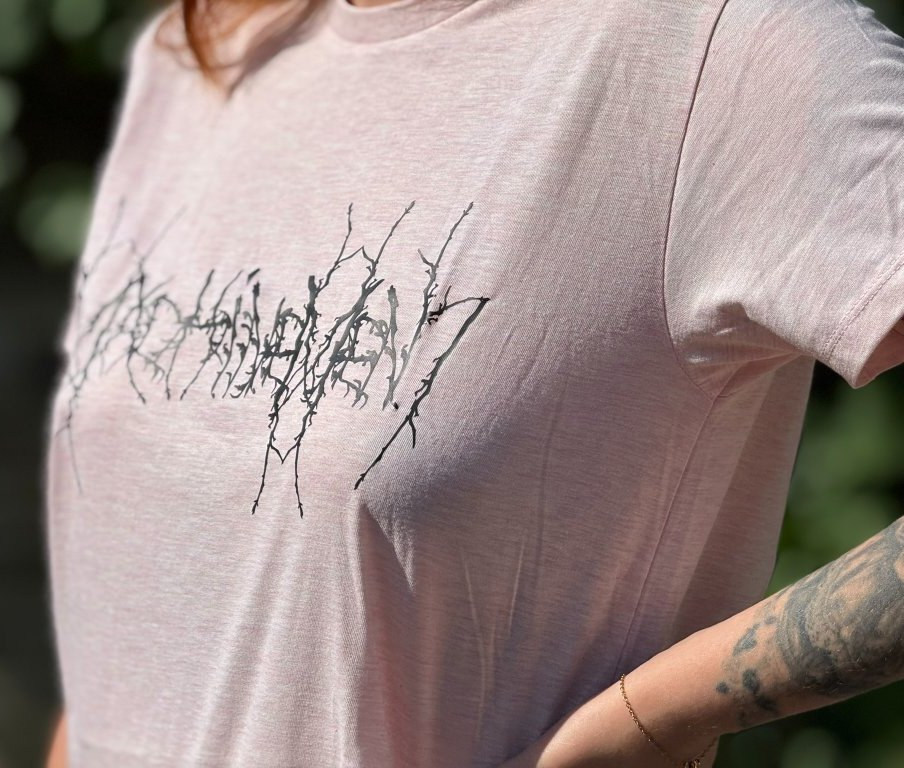
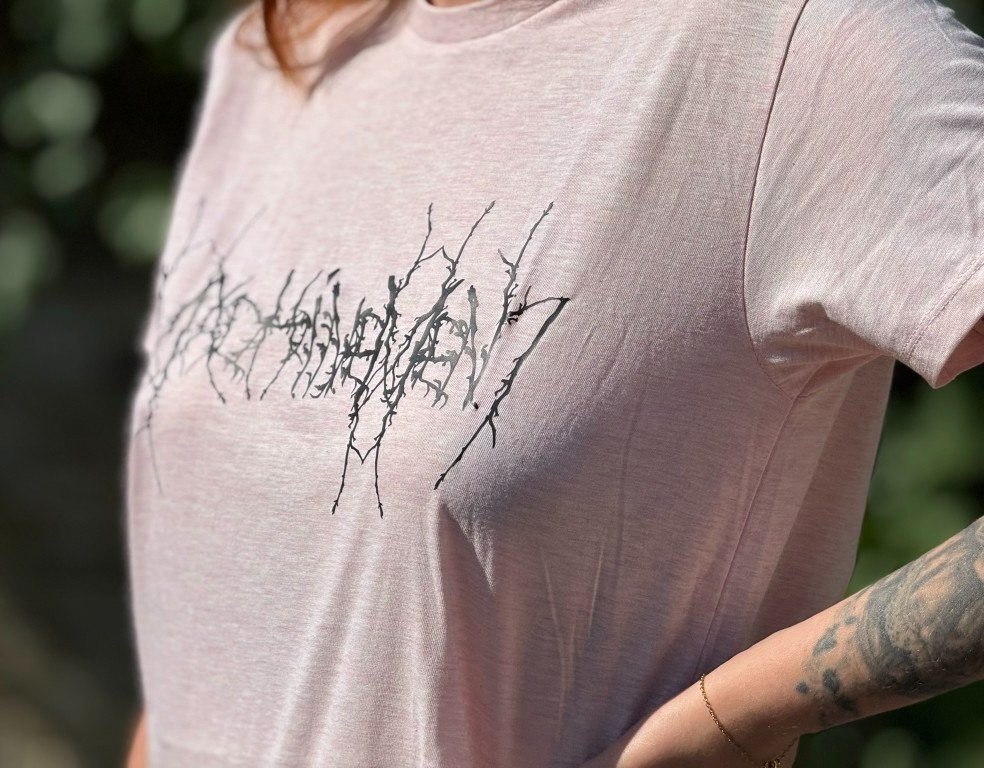
fix(shop): loosen pink t-shirt crop and use aspect-matched columns
Re-crop tshirt-pink.jpg and tshirt-pink-detail.jpg with a wider margin so
the models' arms are never cut off - only trim a bit of background.

Also switch each carousel slide from a forced grid-cols-2 + aspect-[3/4]
(which was silently re-cropping photos again via object-cover to force
them into an equal 3:4 box) to an asymmetric grid whose column widths and
row aspect ratio are computed from each photo's own pixel dimensions, so
object-cover no longer crops beyond the intentional edit.

diff --git a/layouts/index.html b/layouts/index.html
@@ -17,9 +17,13 @@
            prev/next buttons + arrow keys). -->
       <div class="relative rounded-2xl overflow-hidden mb-4 border-2 border-gold">
         <div class="grid grid-flow-col auto-cols-[100%] overflow-x-auto snap-x snap-mandatory no-scrollbar" id="shop-carousel-track" tabindex="0">
-          <div class="snap-start [scroll-snap-stop:always] min-w-0 grid grid-cols-2 gap-0.5">
-            <a href="https://machinemens.bandcamp.com/" target="_blank" rel="noopener noreferrer" class="relative block">
-              <div class="relative aspect-[3/4] w-full">
+          <!-- Column widths use grid-cols-[<w1>fr_<w2>fr] matching each cropped photo's
+               real pixel aspect ratio (not a strict 50/50 split), and the slide's own
+               aspect-[totalW/768] keeps the row height in exact proportion — so
+               object-cover never re-crops the photos beyond the intentional edit. -->
+          <div class="snap-start [scroll-snap-stop:always] min-w-0 grid grid-cols-[560fr_930fr] gap-0.5 aspect-[1490/768]">
+            <a href="https://machinemens.bandcamp.com/" target="_blank" rel="noopener noreferrer" class="relative block h-full">
+              <div class="relative w-full h-full">
                 <img src="/images/shop/tshirt-black.jpg" alt="Machinemens T-Shirt, black" class="absolute inset-0 w-full h-full object-cover" loading="eager" width="560" height="768" />
                 <div class="absolute inset-0 bg-gradient-to-t from-black/85 via-black/20 to-transparent"></div>
                 <div class="absolute inset-x-0 bottom-0 px-3 pb-3">
@@ -28,9 +32,9 @@
                 </div>
               </div>
             </a>
-            <a href="https://machinemens.bandcamp.com/" target="_blank" rel="noopener noreferrer" class="relative block">
-              <div class="relative aspect-[3/4] w-full">
-                <img src="/images/shop/tshirt-pink.jpg" alt="Machinemens T-Shirt, pink" class="absolute inset-0 w-full h-full object-cover" loading="eager" width="700" height="768" />
+            <a href="https://machinemens.bandcamp.com/" target="_blank" rel="noopener noreferrer" class="relative block h-full">
+              <div class="relative w-full h-full">
+                <img src="/images/shop/tshirt-pink.jpg" alt="Machinemens T-Shirt, pink" class="absolute inset-0 w-full h-full object-cover" loading="eager" width="930" height="768" />
                 <div class="absolute inset-0 bg-gradient-to-t from-black/85 via-black/20 to-transparent"></div>
                 <div class="absolute inset-x-0 bottom-0 px-3 pb-3">
                   <p class="text-cream font-semibold text-sm">{{ i18n "shop_product_tshirt_pink" }}</p>
@@ -39,9 +43,9 @@
               </div>
             </a>
           </div>
-          <div class="snap-start [scroll-snap-stop:always] min-w-0 grid grid-cols-2 gap-0.5">
-            <a href="https://machinemens.bandcamp.com/" target="_blank" rel="noopener noreferrer" class="relative block">
-              <div class="relative aspect-[3/4] w-full">
+          <div class="snap-start [scroll-snap-stop:always] min-w-0 grid grid-cols-[620fr_984fr] gap-0.5 aspect-[1604/768]">
+            <a href="https://machinemens.bandcamp.com/" target="_blank" rel="noopener noreferrer" class="relative block h-full">
+              <div class="relative w-full h-full">
                 <img src="/images/shop/tshirt-black-detail.jpg" alt="Machinemens T-Shirt, black, print detail" class="absolute inset-0 w-full h-full object-cover" loading="lazy" width="620" height="768" />
                 <div class="absolute inset-0 bg-gradient-to-t from-black/85 via-black/20 to-transparent"></div>
                 <div class="absolute inset-x-0 bottom-0 px-3 pb-3">
@@ -50,9 +54,9 @@
                 </div>
               </div>
             </a>
-            <a href="https://machinemens.bandcamp.com/" target="_blank" rel="noopener noreferrer" class="relative block">
-              <div class="relative aspect-[3/4] w-full">
-                <img src="/images/shop/tshirt-pink-detail.jpg" alt="Machinemens T-Shirt, pink, print detail" class="absolute inset-0 w-full h-full object-cover" loading="lazy" width="904" height="768" />
+            <a href="https://machinemens.bandcamp.com/" target="_blank" rel="noopener noreferrer" class="relative block h-full">
+              <div class="relative w-full h-full">
+                <img src="/images/shop/tshirt-pink-detail.jpg" alt="Machinemens T-Shirt, pink, print detail" class="absolute inset-0 w-full h-full object-cover" loading="lazy" width="984" height="768" />
                 <div class="absolute inset-0 bg-gradient-to-t from-black/85 via-black/20 to-transparent"></div>
                 <div class="absolute inset-x-0 bottom-0 px-3 pb-3">
                   <p class="text-cream font-semibold text-sm">{{ i18n "shop_product_tshirt_pink" }}</p>
